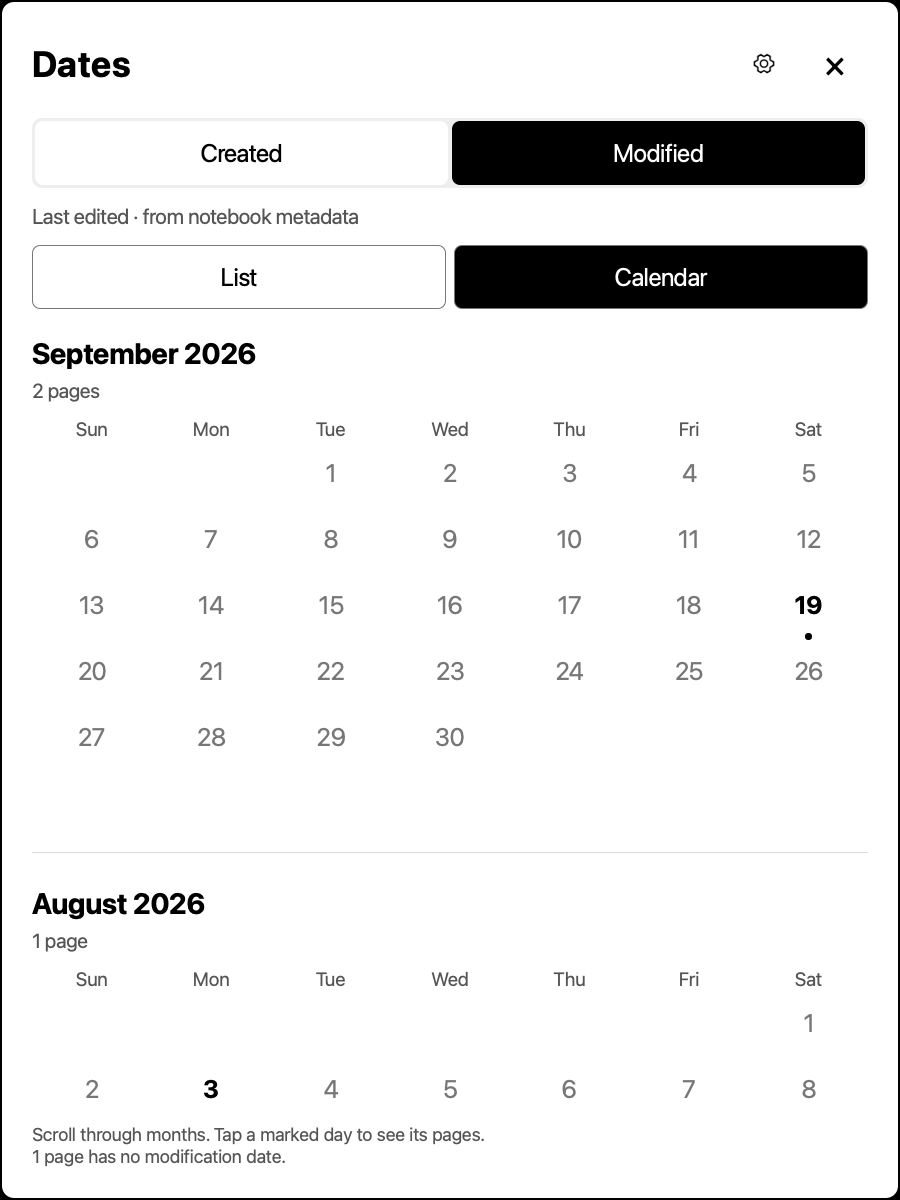
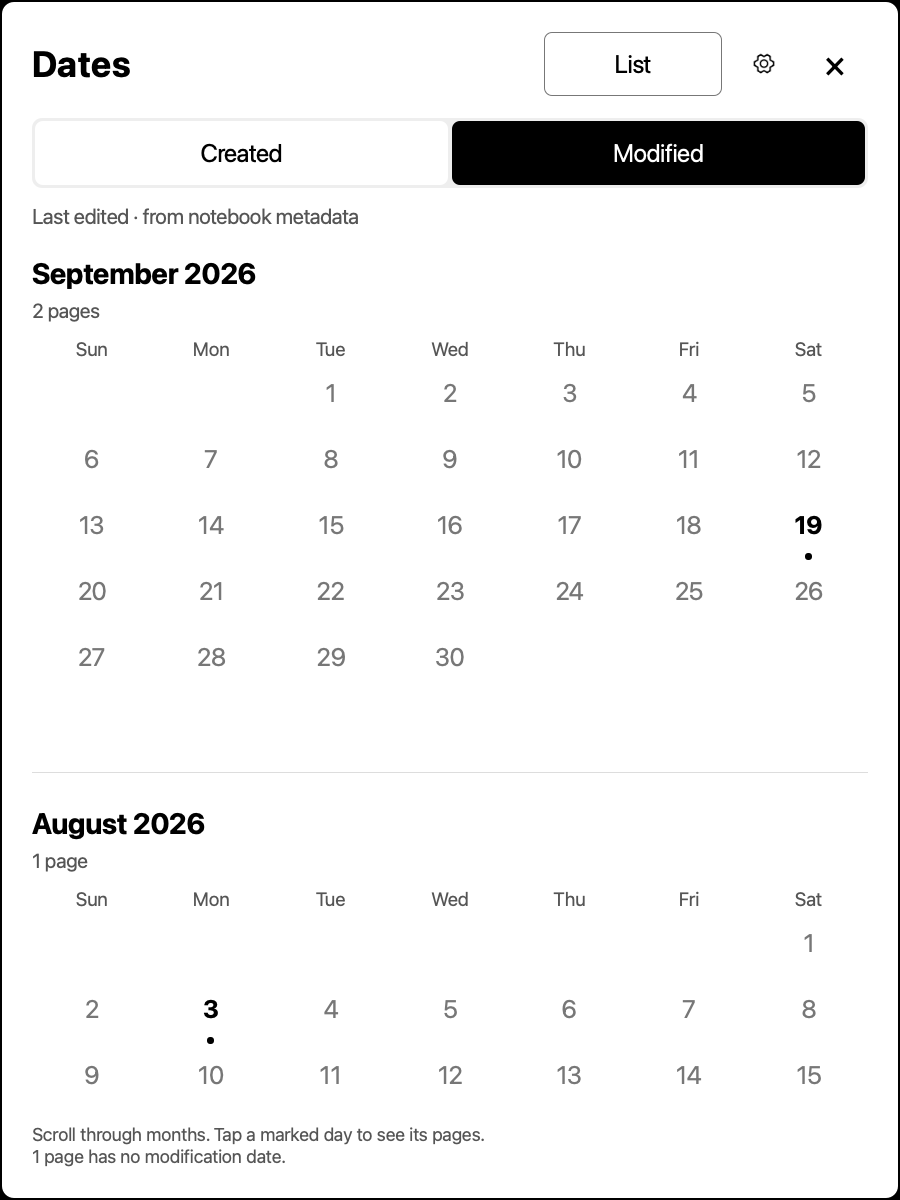
Record guarded Pro UI and real-device sync acceptance helpers

diff --git a/design.md b/design.md
@@ -26,6 +26,14 @@ uses that profile without changing any recovery semantics. An independent
 ten-minute outer rollback asks the Move watchdog to recover stock, disables
 only the new Dates QMD and preserves all Dates data if first installation fails.
 
+`qualify-move-stock.mjs` reuses the hash-pinned harmless systemd experiment from
+the firmware-maintenance checkout, changing only the freshly captured stock
+PID/start literals. It archives the prior proof, tests a dummy sleep service,
+and never signals or restarts xochitl. `verify-pair.mjs` reads one actual shared
+notebook on both devices, triggers the normal asynchronous Dates query/sync path,
+and compares exact creation records and retained event provenance. It verifies
+unchanged native metadata, but never claims a physical new-page round trip.
+
 ## Calendar presentation
 
 Date basis (Created/Modified) and presentation (List/Calendar) are independent
